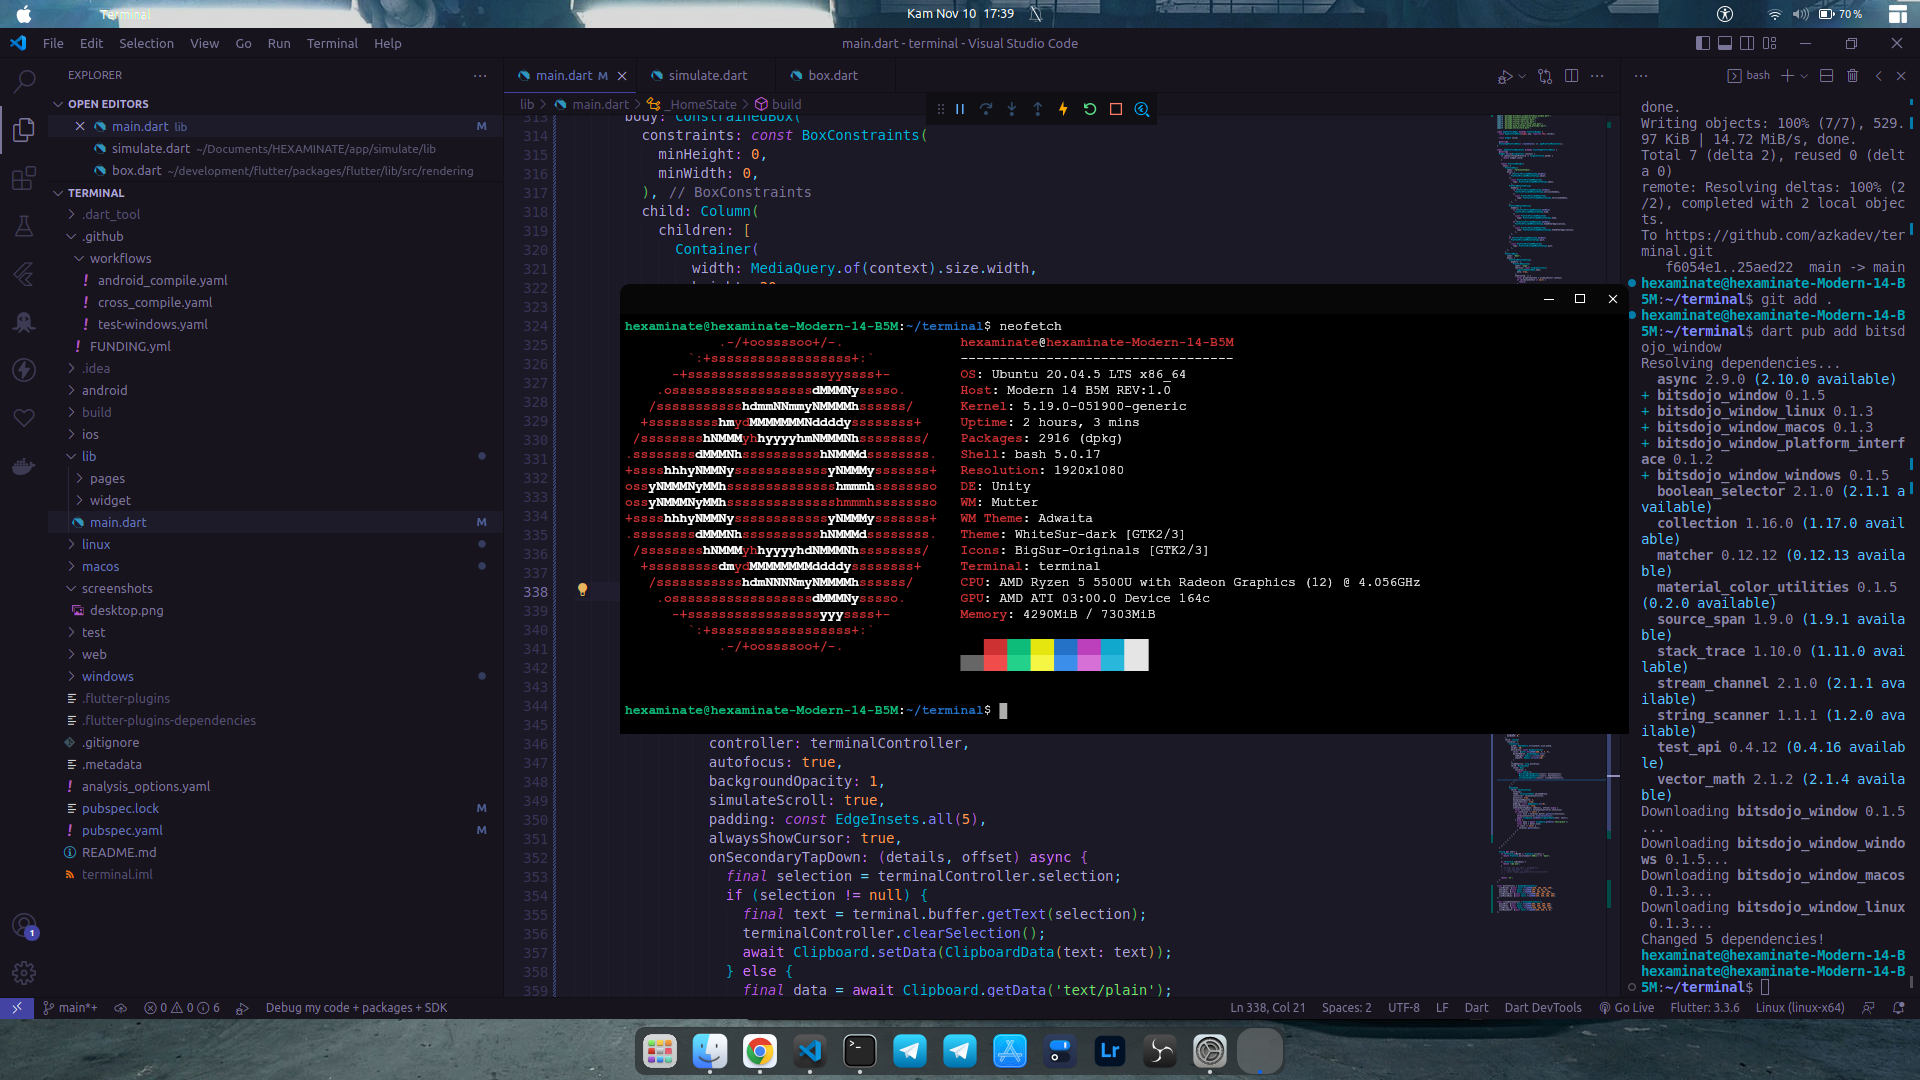
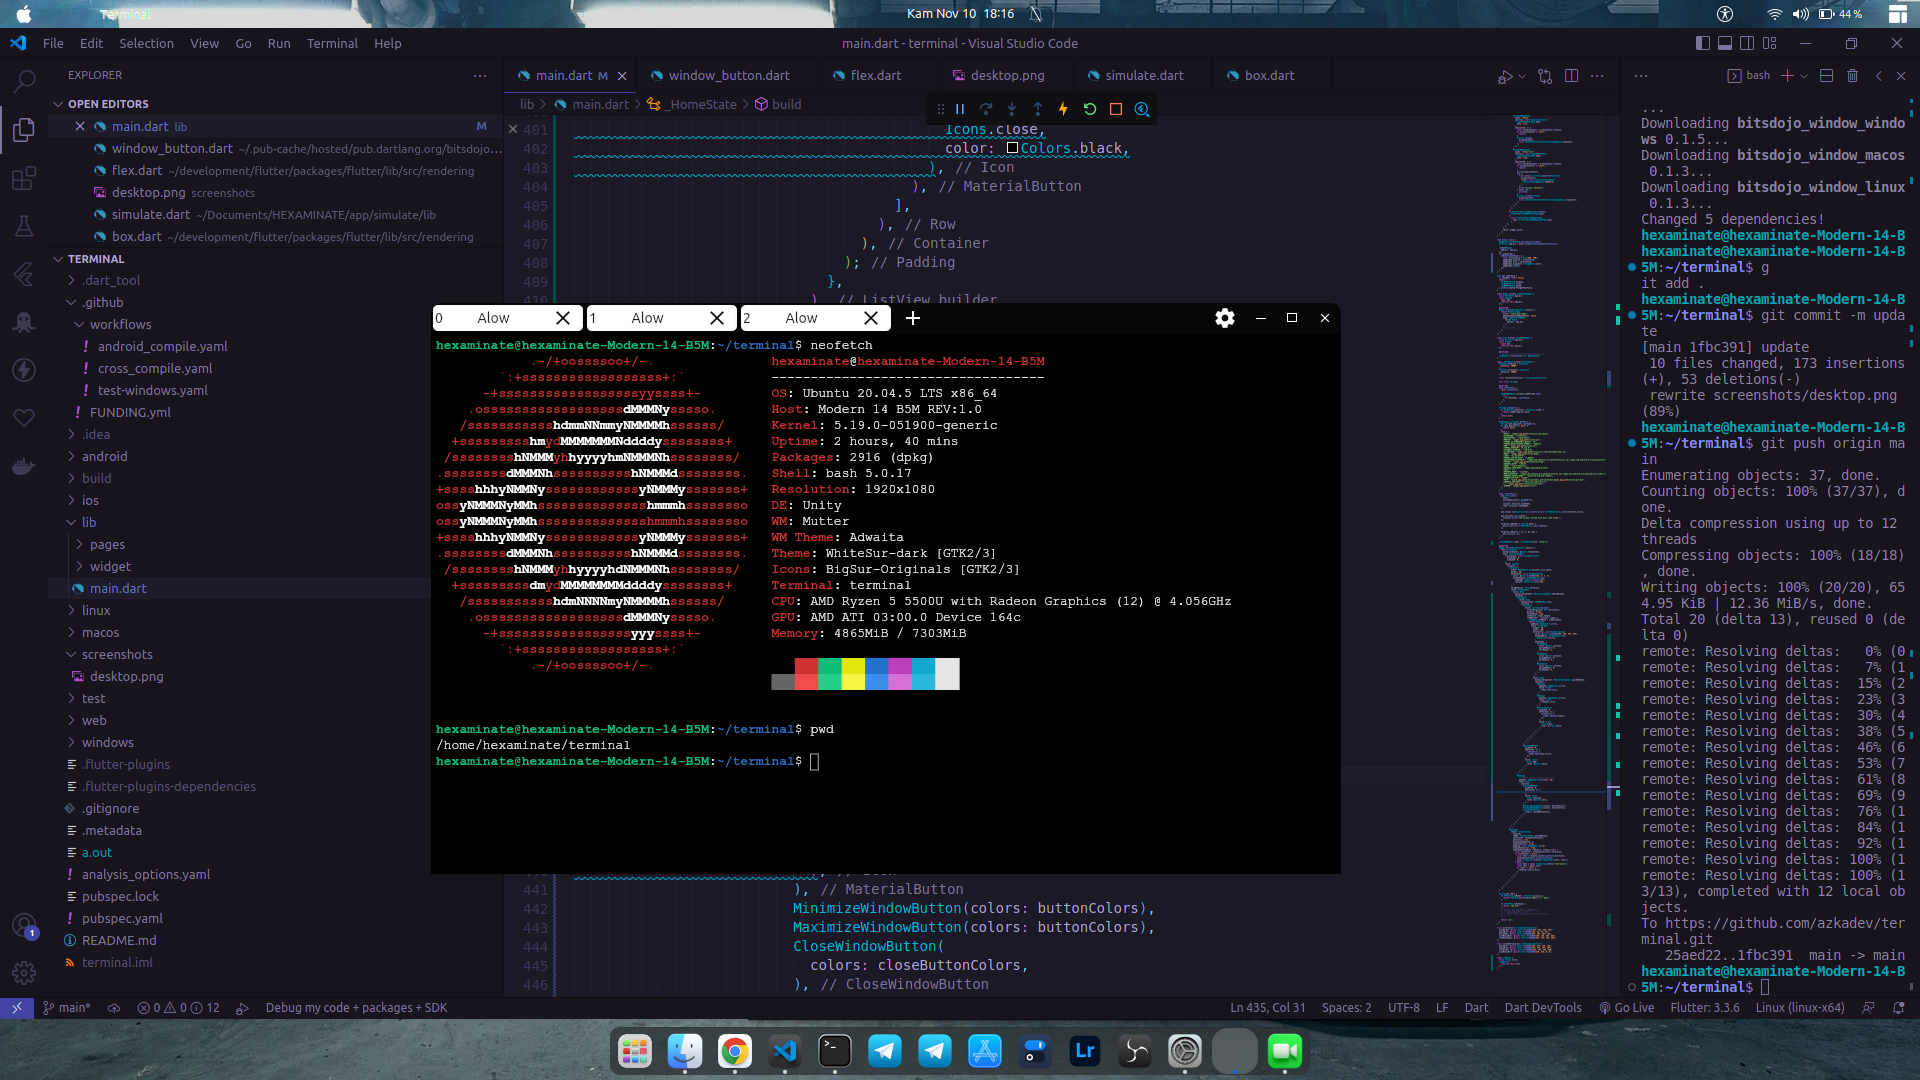
update

diff --git a/lib/main.dart b/lib/main.dart
@@ -163,14 +163,15 @@ void main() async {
   runApp(MyApp(
     app_dir: app_dir,
   ));
-
-  doWhenWindowReady(() {
-    const initialSize = Size(600, 450);
-    appWindow.minSize = initialSize;
-    appWindow.size = initialSize;
-    appWindow.alignment = Alignment.center;
-    appWindow.show();
-  });
+  if (isDesktop) {
+    doWhenWindowReady(() {
+      const initialSize = Size(600, 450);
+      appWindow.minSize = initialSize;
+      appWindow.size = initialSize;
+      appWindow.alignment = Alignment.center;
+      appWindow.show();
+    });
+  }
 }
 
 bool get isDesktop {
@@ -306,6 +307,8 @@ class _HomeState extends State<Home> {
     };
   }
 
+  List<ItemData> items = [ItemData(title: "Alow")];
+
   @override
   Widget build(BuildContext context) {
     return Scaffold(
@@ -324,17 +327,126 @@ class _HomeState extends State<Home> {
                 color: Color.fromARGB(255, 7, 7, 7),
                 borderRadius: BorderRadius.only(
                   topRight: Radius.circular(10),
-                  topLeft: Radius.circular(10)
-                )
+                  topLeft: Radius.circular(10),
+                ),
               ),
               clipBehavior: Clip.antiAlias,
               child: MoveWindow(
                 child: Row(
+                  mainAxisAlignment: MainAxisAlignment.spaceBetween,
                   children: [
-                    const Spacer(),
-                      MinimizeWindowButton(colors: buttonColors),
-                      MaximizeWindowButton(colors: buttonColors),
-                      CloseWindowButton(colors: closeButtonColors),
+                    Expanded(
+                      child: Row(
+                        mainAxisSize: MainAxisSize.min,
+                        children: [
+                          Flexible(
+                            child: ListView.builder(
+                              scrollDirection: Axis.horizontal,
+                              primary: false,
+                              shrinkWrap: true,
+                              itemCount: items.length,
+                              itemBuilder: (context, index) {
+                                ItemData itemData = items[index];
+                                return Padding(
+                                  padding: EdgeInsets.all(2),
+                                  child: Container(
+                                    height: 20,
+                                    width: 150,
+                                    decoration: const BoxDecoration(
+                                      color: Color.fromARGB(255, 255, 255, 255),
+                                      borderRadius: BorderRadius.all(
+                                        Radius.circular(5),
+                                      ),
+                                      boxShadow: [
+                                        BoxShadow(
+                                          color: Colors.black12,
+                                          spreadRadius: 0,
+                                          blurRadius: 5,
+                                        ),
+                                        BoxShadow(
+                                          color: Colors.black12,
+                                          spreadRadius: 0,
+                                          blurRadius: 5,
+                                        ),
+                                        BoxShadow(
+                                          color: Colors.black12,
+                                          spreadRadius: 0,
+                                          blurRadius: 5,
+                                        ),
+                                      ],
+                                    ),
+                                    child: Row(
+                                      mainAxisAlignment: MainAxisAlignment.spaceBetween,
+                                      children: [
+                                        Padding(
+                                          padding: EdgeInsets.all(2),
+                                          child: Text(
+                                            index.toString(),
+                                          ),
+                                        ),
+                                        Padding(
+                                          padding: EdgeInsets.all(2),
+                                          child: Text(
+                                            itemData.title,
+                                          ),
+                                        ),
+                                        MaterialButton(
+                                          minWidth: 0,
+                                          onPressed: () {
+                                            setState(() {
+                                              items.removeAt(index);
+                                            });
+                                          },
+                                          child: Icon(
+                                            Icons.close,
+                                            color: Colors.black,
+                                          ),
+                                        ),
+                                      ],
+                                    ),
+                                  ),
+                                );
+                              },
+                            ),
+                          ),
+                          MaterialButton(
+                            minWidth: 0,
+                            onPressed: () {
+                              setState(() {
+                                items.add(items.first);
+                              });
+                            },
+                            child: Icon(
+                              Icons.add,
+                              color: Colors.white,
+                            ),
+                          ),
+                        ],
+                      ),
+                    ),
+                    Padding(
+                      // ignore: prefer_const_constructors
+                      padding: EdgeInsets.only(left: 15),
+                      child: Row(
+                        children: [
+                          MaterialButton(
+                            minWidth: 0,
+                            onPressed: () { 
+                              
+                            },
+                            child: Icon(
+                              Icons.settings,
+                              color: Colors.white,
+                            ),
+                          ),
+                          MinimizeWindowButton(colors: buttonColors),
+                          MaximizeWindowButton(colors: buttonColors),
+                          CloseWindowButton(
+                            colors: closeButtonColors,
+                          ),
+                        ],
+                      ),
+                    ),
                   ],
                 ),
               ),
@@ -402,3 +514,10 @@ final closeButtonColors = WindowButtonColors(
   iconNormal: const Color.fromARGB(255, 255, 255, 255),
   iconMouseOver: const Color.fromARGB(255, 255, 0, 0),
 );
+
+class ItemData {
+  final String title;
+  ItemData({
+    required this.title,
+  });
+}
